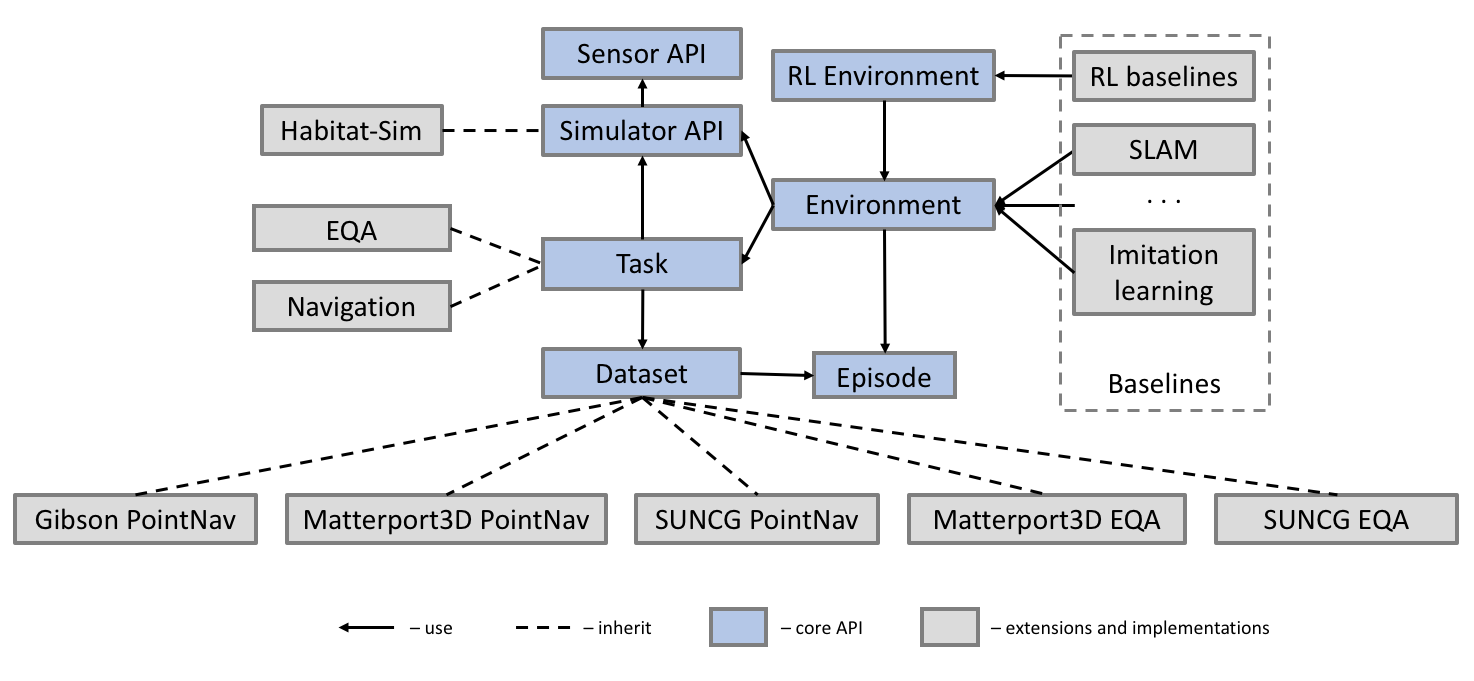
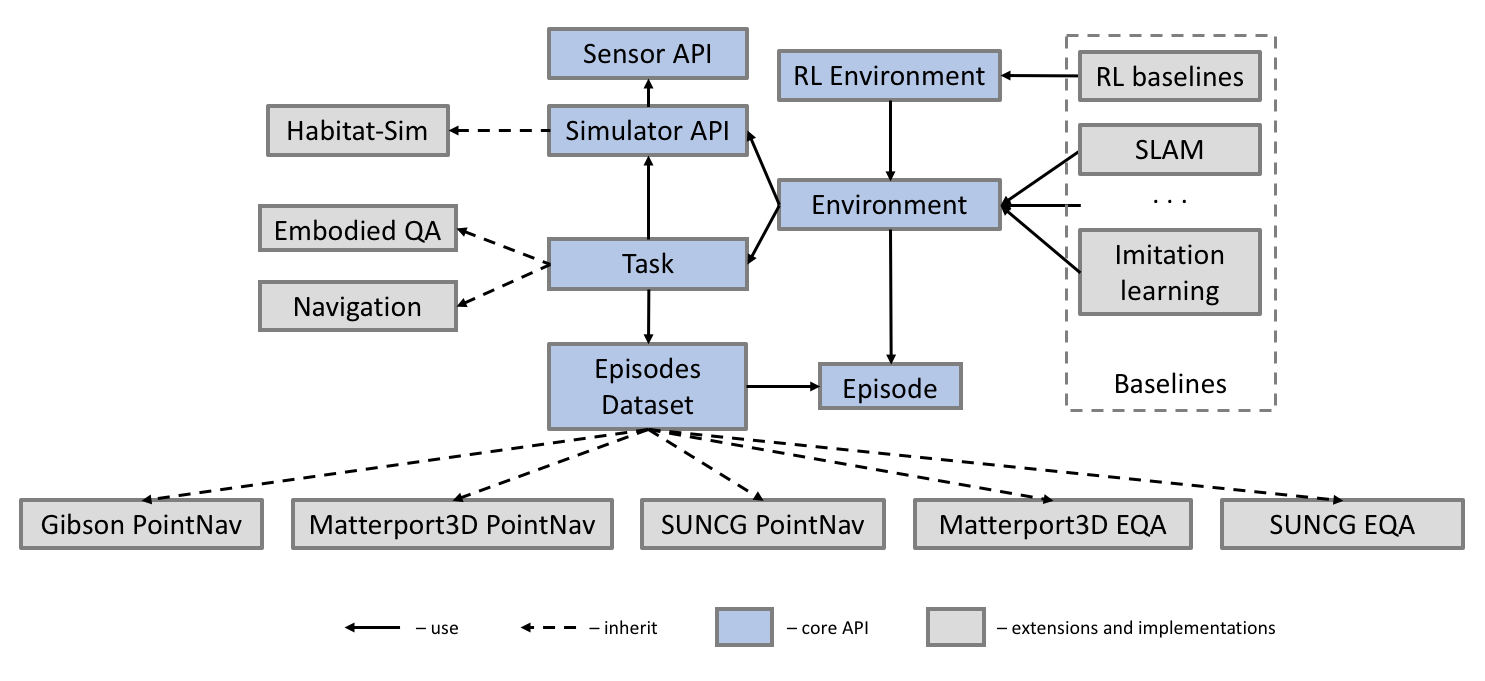
Small changes to the schema of API, last bits of renaming, data section update of README (#71)
* Nits changes to the architecture of API

* Changed dataset name to Episodes Dataset

* Changed dataset name to Episodes Dataset

* Renamed remaining esp names in folder names and code.

* Some missing parts, tests passed.

diff --git a/test/test_habitat_env.py b/test/test_habitat_env.py
@@ -13,8 +13,10 @@ from habitat.sims.habitat_sim import (
 from habitat.tasks.nav.nav_task import NavigationEpisode
 from habitat.core.simulator import AgentState
 
-MULTIHOUSE_RESOURCES_PATH = "data/esp/multihouse-resources"
-MULTIHOUSE_INITIALIZATIONS_PATH = "data/esp/multihouse_initializations.json"
+MULTIHOUSE_RESOURCES_PATH = "data/habitat-sim/multihouse-resources"
+MULTIHOUSE_INITIALIZATIONS_PATH = (
+    "data/habitat-sim/multihouse_initializations.json"
+)
 MULTIHOUSE_MAX_STEPS = 10
 
 
@@ -141,9 +143,10 @@ def test_env():
         "HabitatSimDepthSensor",
         "HabitatSimSemanticSensor",
     ]
-    assert os.path.exists(
-        config.scene
-    ), "ESP test data missing, please download and place it in data/esp/test/"
+    assert os.path.exists(config.scene), (
+        "Habitat-Sim test data missing, please download and place it in "
+        "data/habitat-sim/test/"
+    )
     env = habitat.Env(config=config, dataset=None)
     env.episodes = [
         NavigationEpisode(
@@ -226,9 +229,10 @@ def test_rl_env():
         "HabitatSimDepthSensor",
         "HabitatSimSemanticSensor",
     ]
-    assert os.path.exists(
-        config.scene
-    ), "ESP test data missing, please download and place it in data/esp/test/"
+    assert os.path.exists(config.scene), (
+        "Habitat-Sim test data missing, please download and place it in "
+        "data/habitat-sim/test/"
+    )
     env = DummyRLEnv(config=config, dataset=None)
     env.episodes = [
         NavigationEpisode(
@@ -266,9 +270,10 @@ def test_rl_env():
 def test_action_space_shortest_path():
     config = sim_nav_cfg()
     config.task_name = "Nav-v0"
-    assert os.path.exists(
-        config.scene
-    ), "ESP test data missing, please download and place it in data/esp/test/"
+    assert os.path.exists(config.scene), (
+        "Habitat-Sim test data missing, please download and place it in "
+        "data/habitat-sim/test/"
+    )
     env = habitat.Env(config=config, dataset=None)
 
     # action space shortest path

diff --git a/test/test_trajectory_sim.py b/test/test_trajectory_sim.py
@@ -8,15 +8,15 @@ from habitat.sims import make_sim
 
 def init_sim():
     config = sim_nav_cfg()
-    config.scene = os.environ.get("ESP_TEST_SCENE", "data/esp/test/test.glb")
+    config.scene = "data/habitat-sim/test/test.glb"
     assert os.path.exists(
         config.scene
-    ), "Please download ESP test data to data/esp/test/."
+    ), "Please download Habitat-Sim test data to data/habitat-sim/test/."
     return make_sim("Sim-v0", config=config)
 
 
 def test_sim():
-    with open("test/data/esp_trajectory_data.json", "r") as f:
+    with open("test/data/habitat-sim_trajectory_data.json", "r") as f:
         test_trajectory = json.load(f)
     sim = init_sim()
 
@@ -27,7 +27,8 @@ def test_sim():
     )
 
     for i, action in enumerate(test_trajectory["actions"]):
-        if i > 0:  # ignore first step as esp does not update agent until then
+        if i > 0:  # ignore first step as habitat-sim doesn't update
+            # agent until then
             state = sim.agent_state()
             assert (
                 np.allclose(

diff --git a/habitat/config/experiments/nav.py b/habitat/config/experiments/nav.py
@@ -15,7 +15,7 @@ def sim_nav_cfg():
     config.width = 640
     config.hfov = "90"  # horizontal field of view in degrees
     config.seed = 100
-    config.scene = "data/esp/test/test.glb"
+    config.scene = "data/habitat-sim/test/test.glb"
     config.sensors = [
         "HabitatSimRGBSensor",
         "HabitatSimDepthSensor",

diff --git a/README.md b/README.md
@@ -26,7 +26,7 @@ pip install -e .
 export PYTHONPATH="${PYTHONPATH}:/path/to/habitat-sim/:/path/to/habitat-sim/build/esp/bindings"
 ```
 
-4. Download test data from [dropbox share](https://www.dropbox.com/sh/dl/h02865ucoh3ix07/AABkVrHCfPI0BAmSeHCytrsya) and place it in folder:`data/esp/test/`
+4. Download test data from [dropbox share](https://www.dropbox.com/sh/dl/h02865ucoh3ix07/AABkVrHCfPI0BAmSeHCytrsya) and place it in folder:`data/habitat-sim/test/`
 
 
 ### Example
@@ -37,7 +37,7 @@ from habitat.config.experiments.nav import sim_nav_cfg
 from habitat.tasks.nav.nav_task import NavigationEpisode
 
 config = sim_nav_cfg()
-config.scene = 'data/esp/test/test.glb'
+config.scene = 'data/habitat-sim/test/test.glb'
 config.task_name = 'Nav-v0'
 env = habitat.Env(config=config)
 env.episodes = [NavigationEpisode(episode_id='0', scene_id=config.scene, 
@@ -56,7 +56,12 @@ for i in range(100):
 ```
 
 ### Data
+To set up data folder with symlink to relevant data for devfair you can run:
 
-**Matterport3D**
+ `bash habitat/internal/data/download_data_fair.sh`
 
-1. PointNav val split: `/private/home/akadian/habitat-api-data/mp3d-splits`
+**Episode datasets**
+
+The episode datasets will be loaded to S3, while you can access it here: 
+1. PointNav splits for Gibson and Matterport3D: `/private/home/maksymets/data/habitat_datasets/pointnav`
+2. EQA splits for Matterport3D: `/private/home/maksymets/data/habitat_datasets/eqa`
